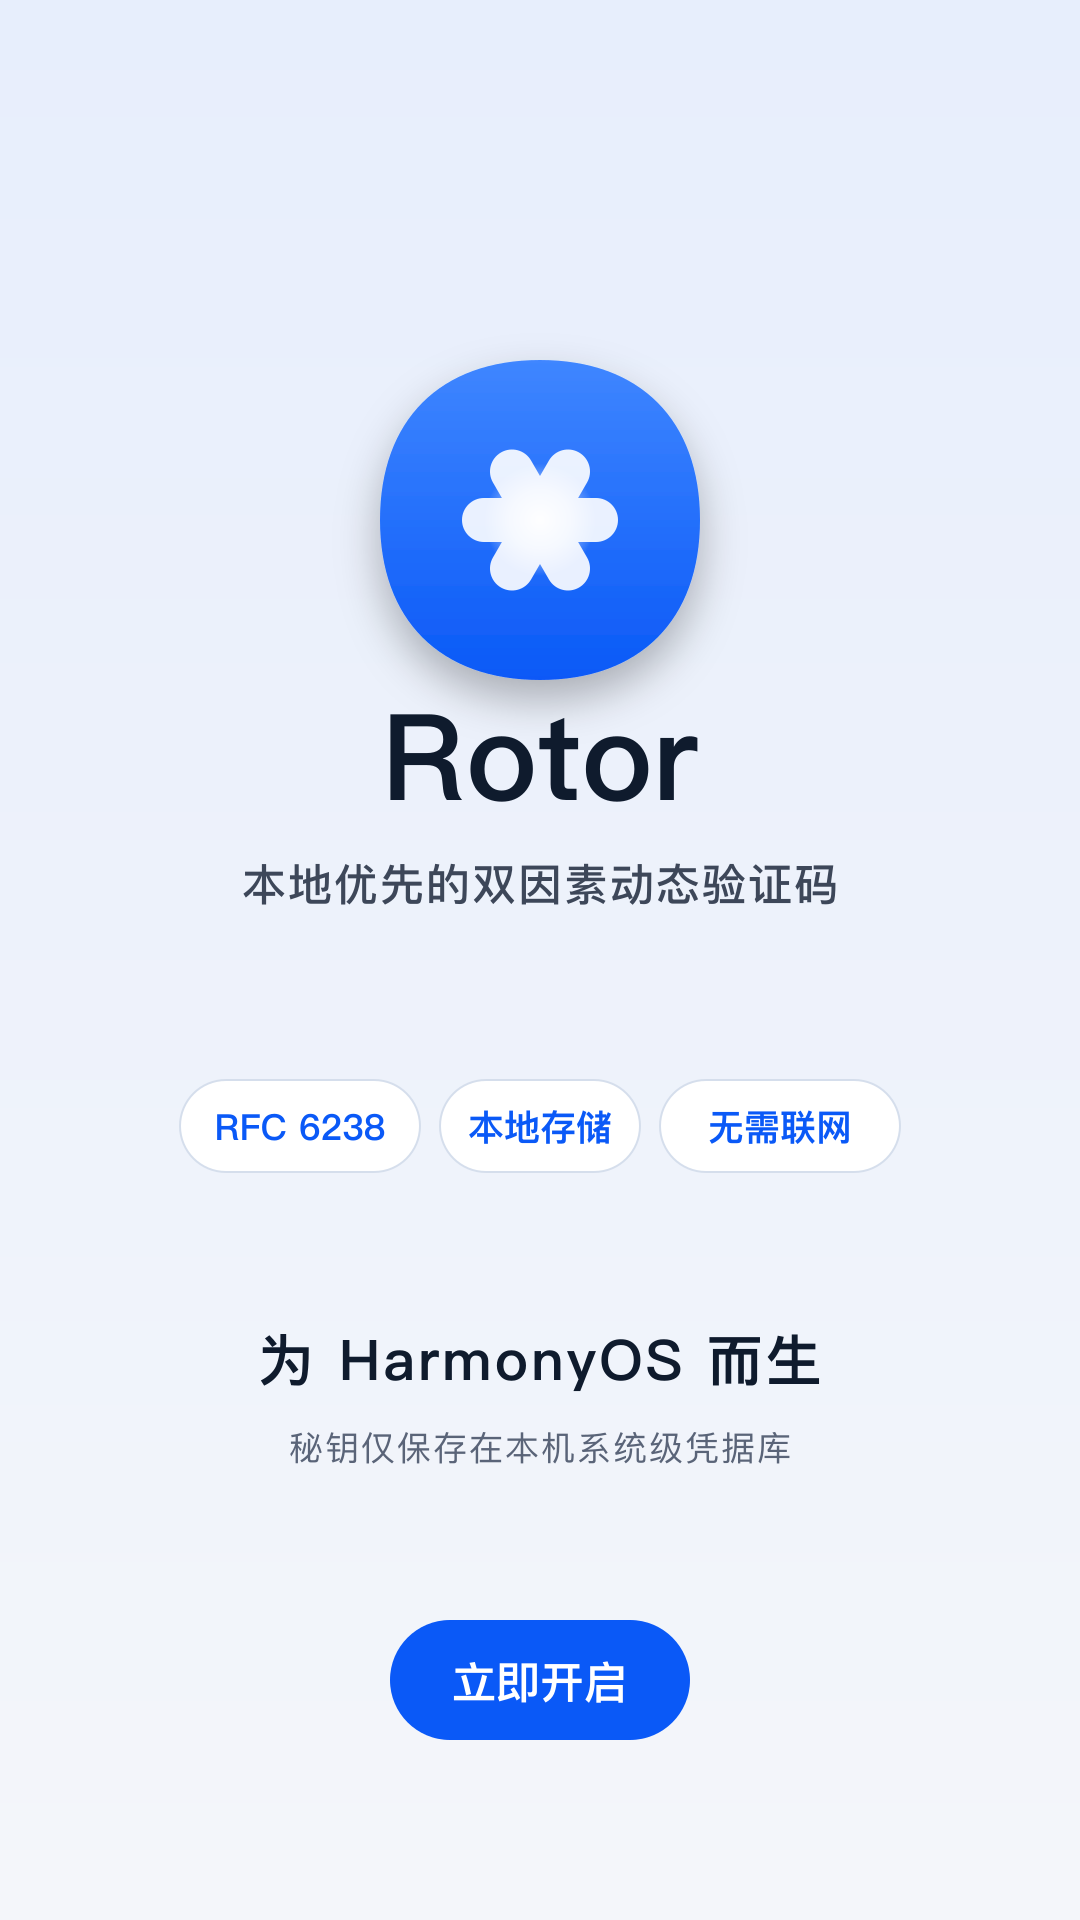
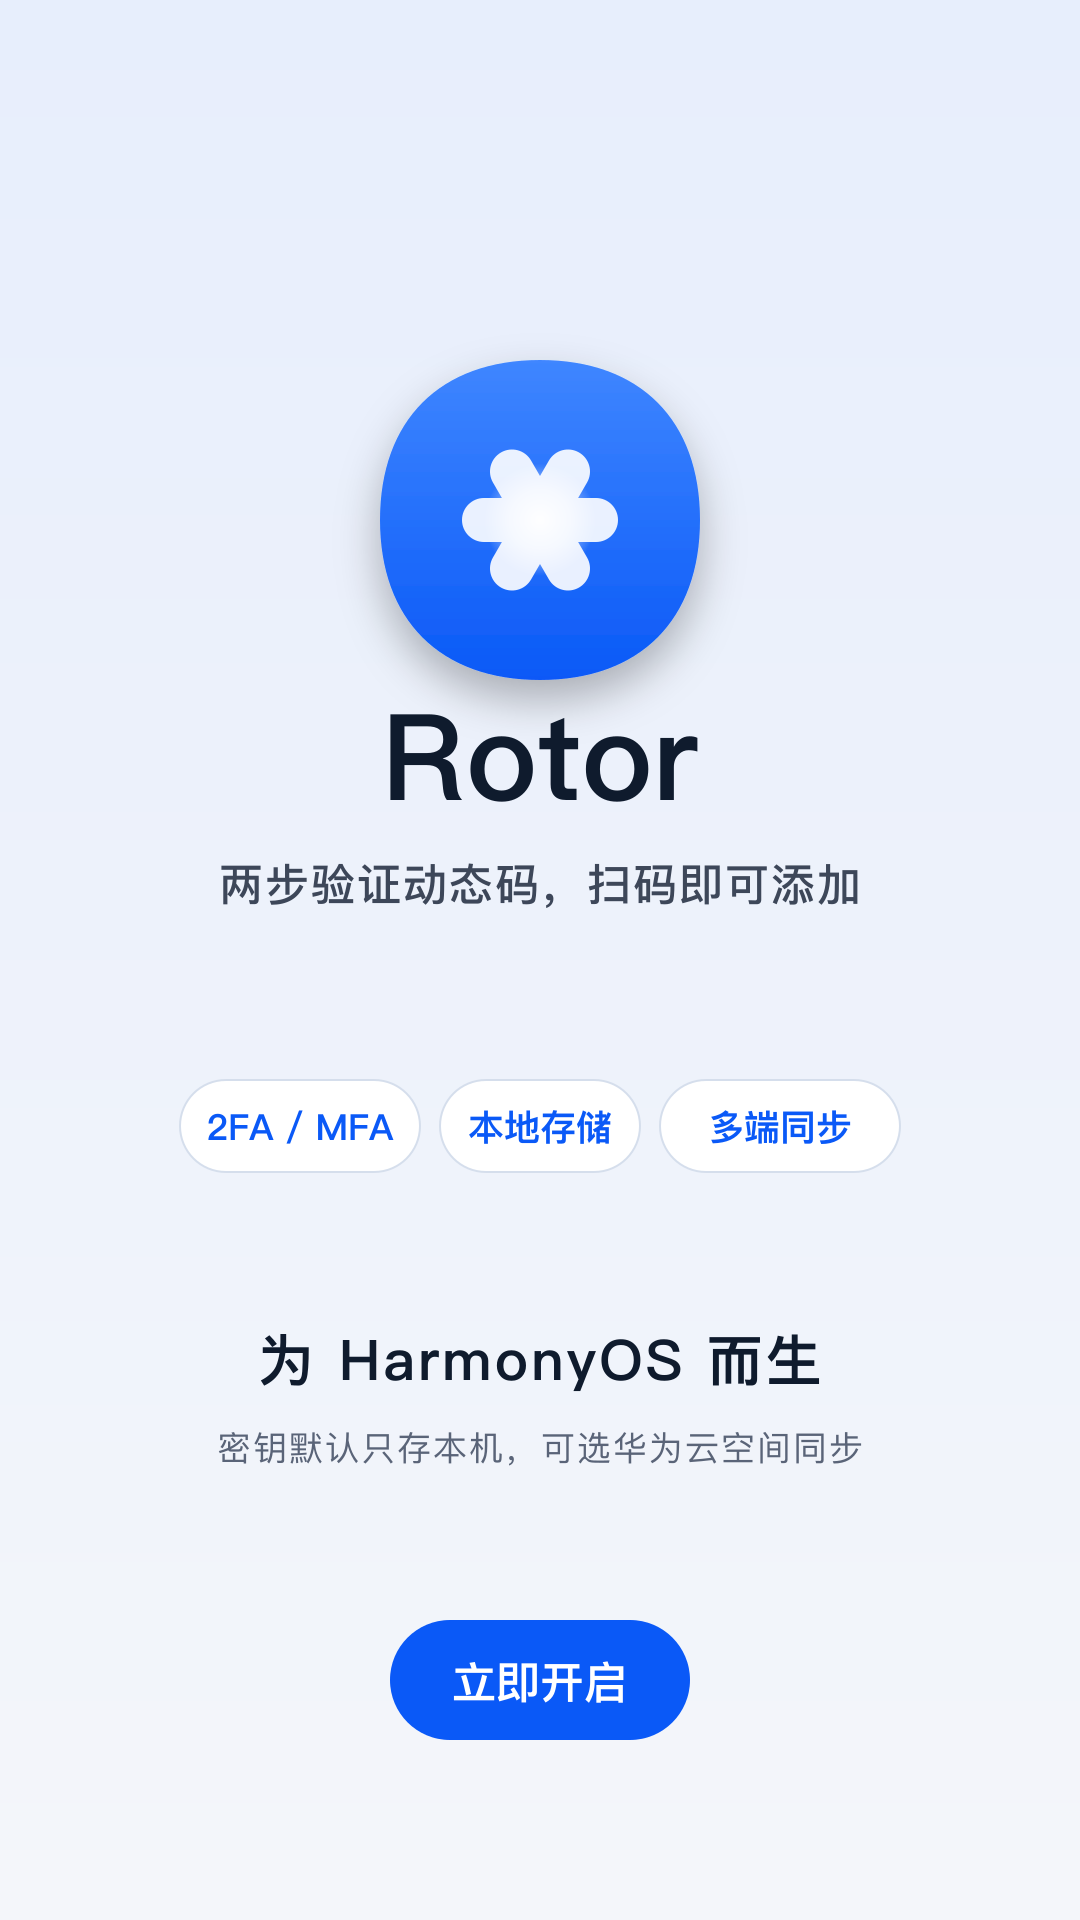
feat: 应用名称改为 Rotor 身份验证器，重写上架文案与宣传图
- 桌面与商店名称改为「Rotor 身份验证器」（英文 Rotor Authenticator），首页标题与关于页改用 `brand_name`，仍显示 Rotor
- README 新增应用名称一节，一句话简介与应用介绍按两步验证、二次验证、2FA、MFA、动态口令等常用搜索词重写
- 5 张宣传图更新标题文案，修正与云同步冲突的旧说法和「秘钥」错字

diff --git a/AGENTS.md b/AGENTS.md
@@ -3,6 +3,7 @@
 ## 平台
 - HarmonyOS NEXT，ArkTS + ArkUI 声明式；SDK 版本以 `build-profile.json5` 为准
 - Bundle：`com.liasica.rotor`
+- 应用名称：桌面与商店为「Rotor 身份验证器」（`app_name`、`EntryAbility_label`，须与软著登记名称一致），应用内首页标题与关于页用 `brand_name`（Rotor）；上架文案与宣传图见 `README.md`
 
 ## 设计规范
 - 视觉与交互按 HarmonyOS 官方 UI Design Kit（HDS 组件）与沉浸光感规范实现，不参考外部设计稿
